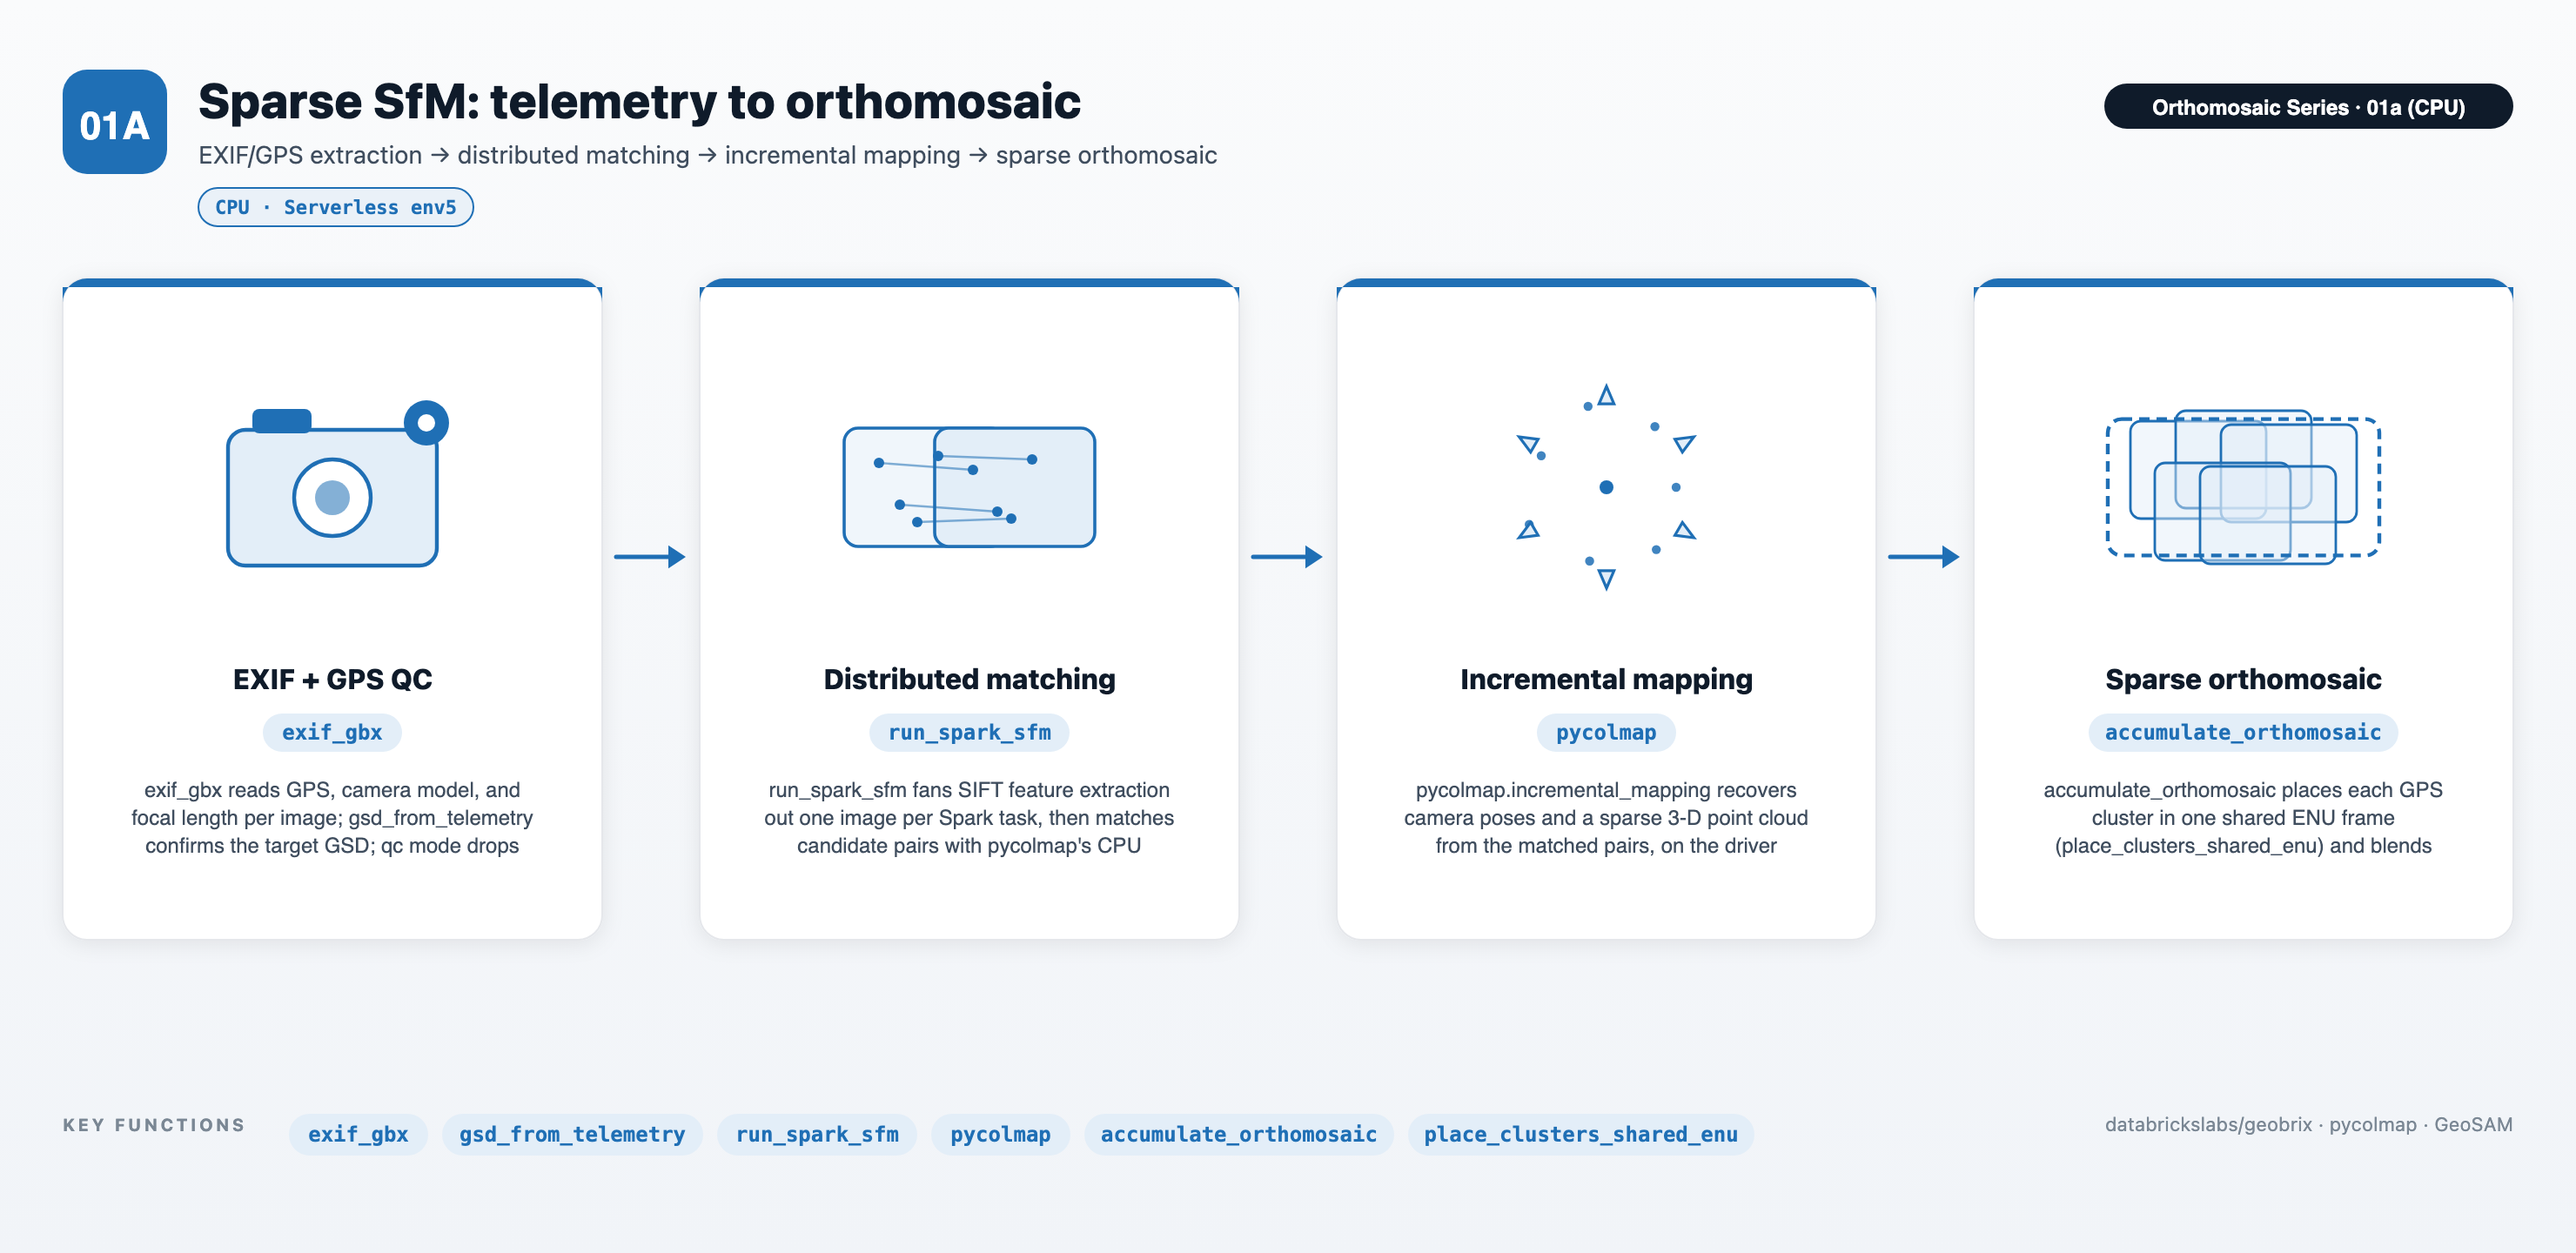
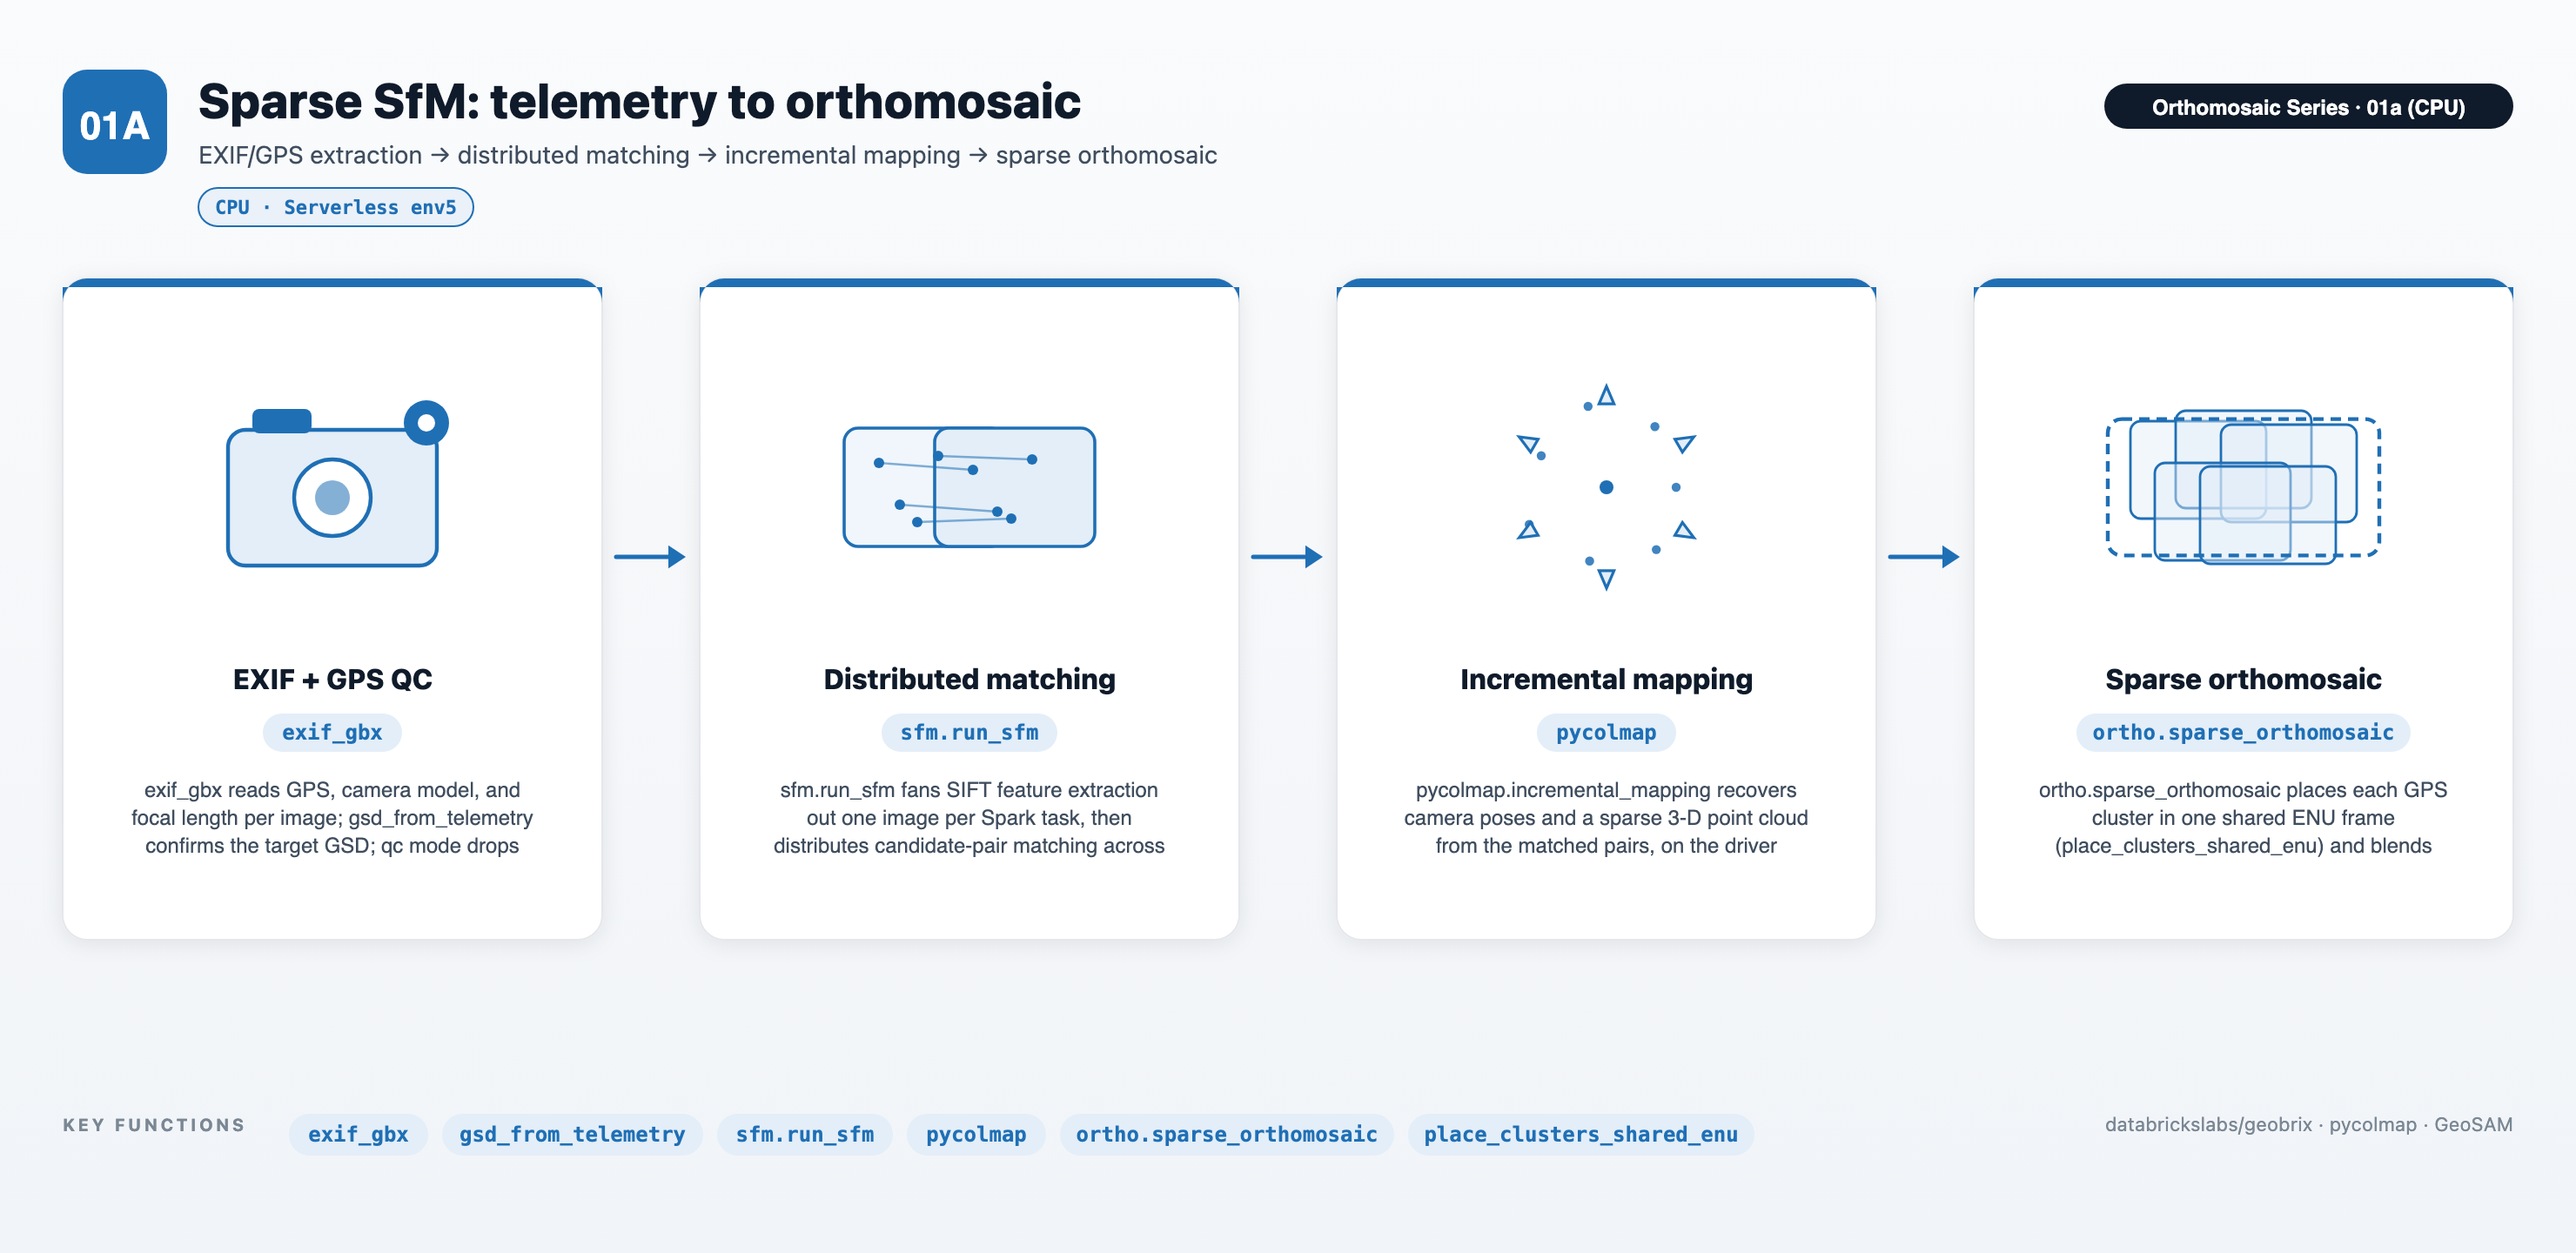
docs: refresh 01a diagram for sfm.run_sfm + sparse_orthomosaic
The 01a diagram's chips named the pre-promotion functions. Update
both renames [2a's run_spark_sfm -> sfm.run_sfm and this slice's
accumulate_orthomosaic -> ortho.sparse_orthomosaic] plus the mdx alt
text so the diagram tracks the code. Also tightened the matching-stage
subtitle: matching runs distributed via mapInPandas, not on the driver
as previously stated.

diff --git a/resources/images/generators/orthomosaic.py b/resources/images/generators/orthomosaic.py
@@ -675,20 +675,20 @@ NOTEBOOKS = {
                   glyph=g_exif_camera,
                   chip_text="exif_gbx"),
             Stage(title="Distributed matching",
-                  subtitle="run_spark_sfm fans SIFT feature extraction out one image per Spark task, then matches candidate pairs with pycolmap's CPU matcher on the driver",
+                  subtitle="sfm.run_sfm fans SIFT feature extraction out one image per Spark task, then distributes candidate-pair matching across Spark tasks with pycolmap's CPU matcher",
                   glyph=g_feature_matches,
-                  chip_text="run_spark_sfm"),
+                  chip_text="sfm.run_sfm"),
             Stage(title="Incremental mapping",
                   subtitle="pycolmap.incremental_mapping recovers camera poses and a sparse 3-D point cloud from the matched pairs, on the driver",
                   glyph=g_incremental_poses,
                   chip_text="pycolmap"),
             Stage(title="Sparse orthomosaic",
-                  subtitle="accumulate_orthomosaic places each GPS cluster in one shared ENU frame (place_clusters_shared_enu) and blends back-projected images into orthomosaic.tif",
+                  subtitle="ortho.sparse_orthomosaic places each GPS cluster in one shared ENU frame (place_clusters_shared_enu) and blends back-projected images into orthomosaic.tif",
                   glyph=g_sparse_ortho,
-                  chip_text="accumulate_orthomosaic"),
+                  chip_text="ortho.sparse_orthomosaic"),
         ],
-        "footer_chips": ["exif_gbx", "gsd_from_telemetry", "run_spark_sfm", "pycolmap",
-                         "accumulate_orthomosaic", "place_clusters_shared_enu"],
+        "footer_chips": ["exif_gbx", "gsd_from_telemetry", "sfm.run_sfm", "pycolmap",
+                         "ortho.sparse_orthomosaic", "place_clusters_shared_enu"],
     },
     "01b": {
         "badge": "01b", "series_pill": "Orthomosaic Series  ·  01b (GPU, optional)",
